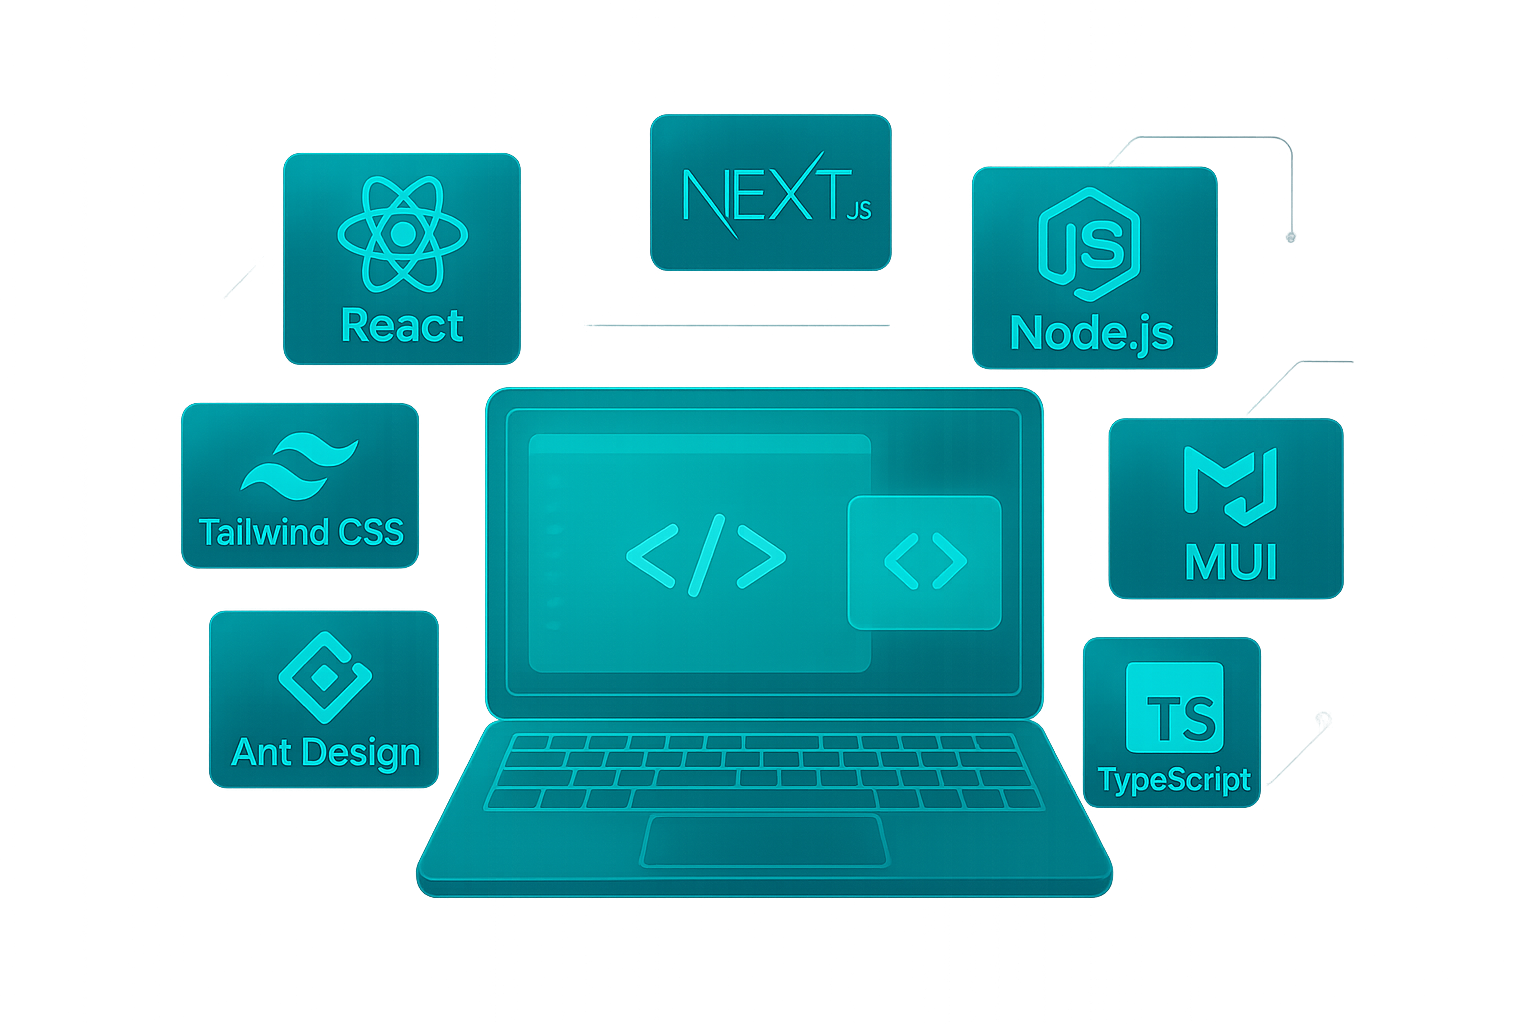
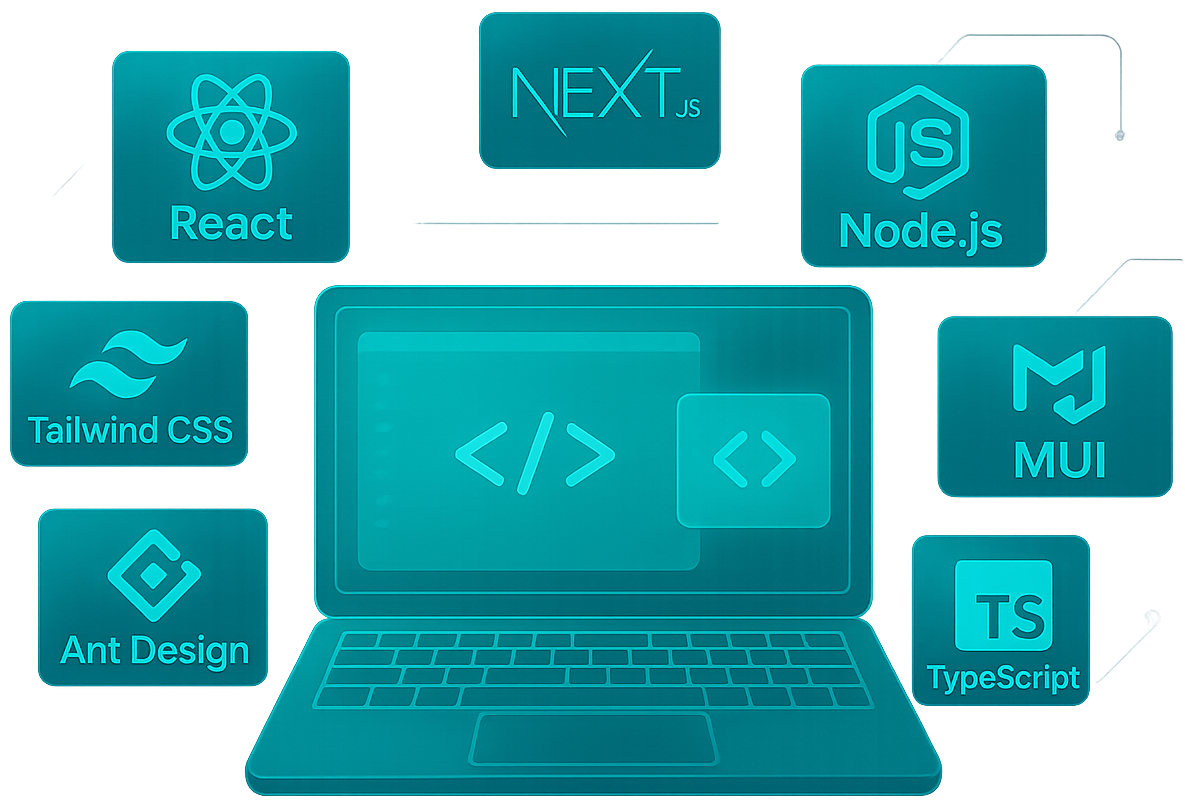
fix: image size fix

diff --git a/views/landing/home/Home.tsx b/views/landing/home/Home.tsx
@@ -31,7 +31,7 @@ const Home = () => {
             all={"unset"}
             color={"brand.primary"}
             fontFamily={FONTS.title}
-            fontSize={[...repeat(2, 35), 40, 50]}
+            fontSize={[...repeat(2, 35), 40, 45, 50]}
             textAlign={"left"}
             fontWeight={600}
             as={"h1"}
@@ -70,14 +70,20 @@ const Home = () => {
           </Text>
         </VStack>
         <figure className="w-full">
-          <VStack align={"center"} position={"relative"}>
+          <VStack
+            ml={"auto"}
+            mr={[...repeat(4, 'auto'), 10]}
+            align={[...repeat(3, "center"), "end"]}
+            position={"relative"}
+            w={[...repeat(2, "100%"), "90%", "100%", "85%", "70%"]}
+          >
             <Image
-              width={1536}
-              height={1024}
+              width={1185}
+              height={805}
               alt={"Hero Section Image - Raza Haider"}
               src={"/images/hero.png"}
               id={"hero-image"}
-              sizes="(min-width: 1040px) calc(50vw - 84px), (min-width: 780px) calc(100vw - 128px), (min-width: 480px) calc(100vw - 64px), calc(100vw - 32px)"
+              sizes="(min-width: 1540px) calc(35vw - 59px), (min-width: 1280px) calc(42.5vw - 71px), (min-width: 1040px) calc(50vw - 84px), (min-width: 780px) calc(90vw - 115px), (min-width: 480px) calc(100vw - 64px), calc(100vw - 32px)"
               priority
             />
           </VStack>
